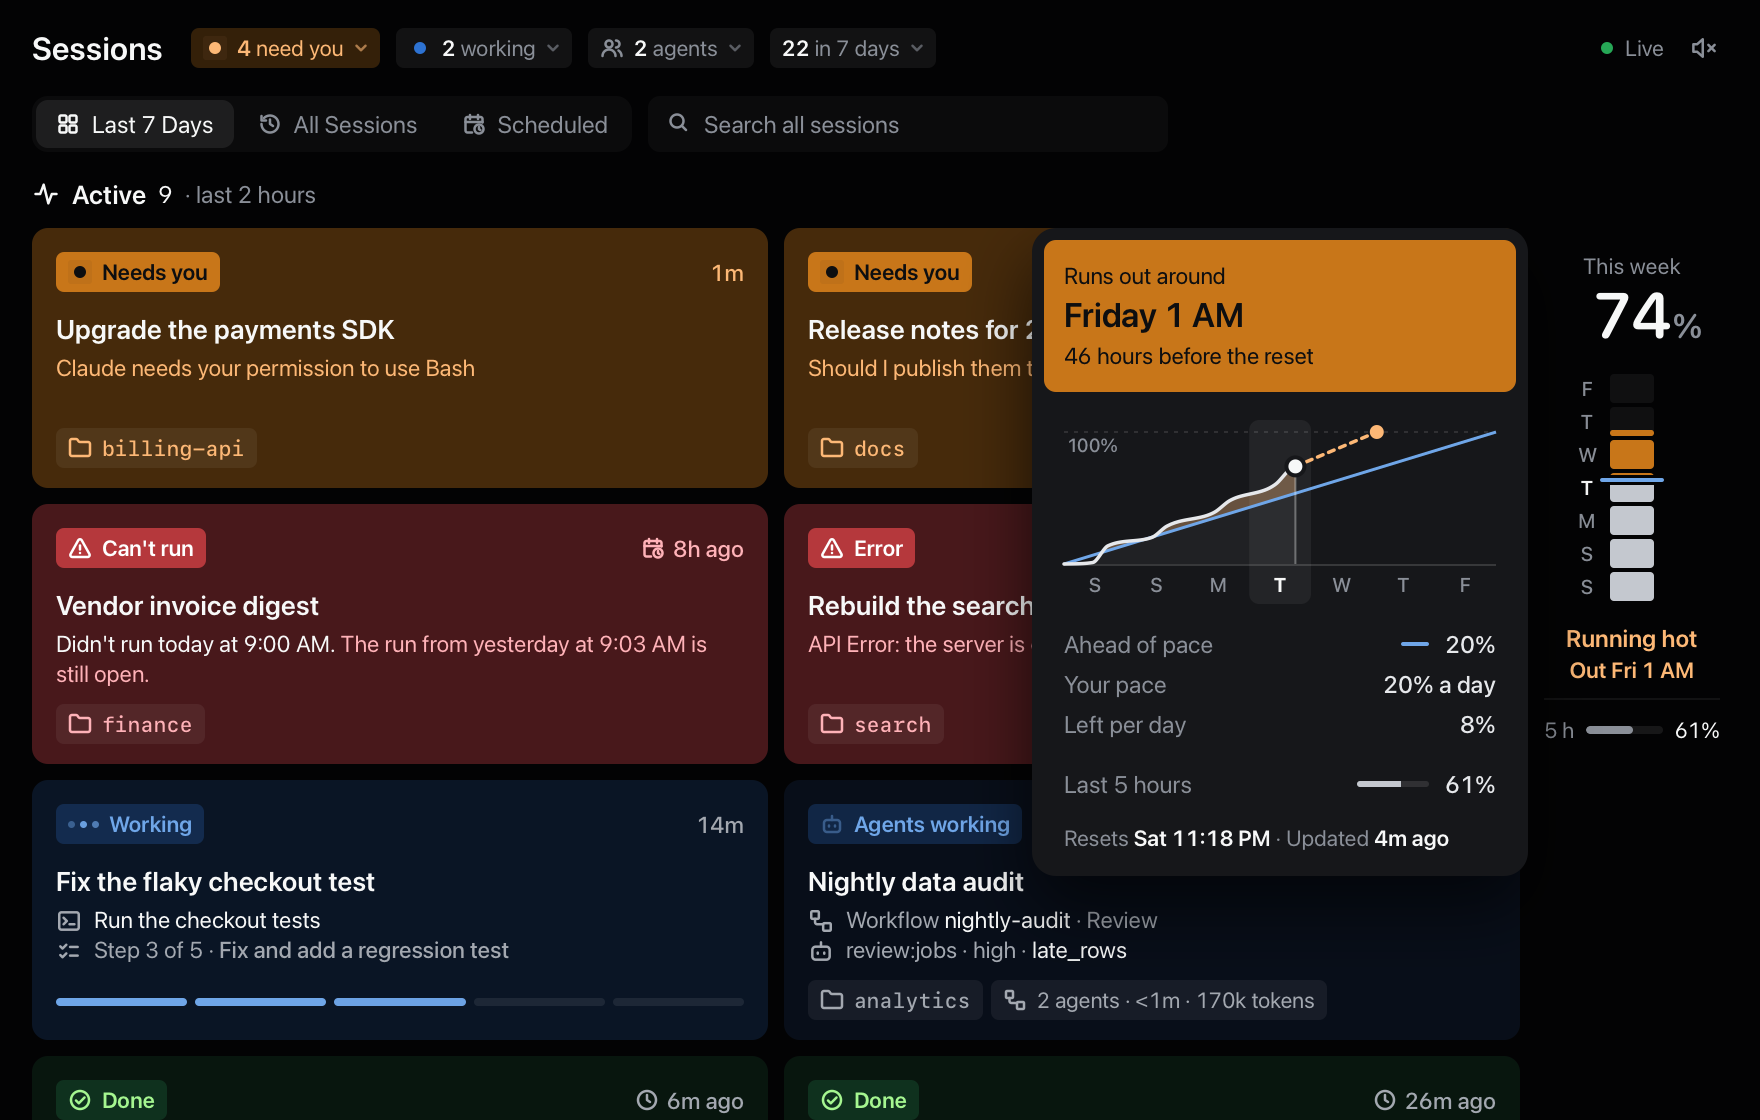
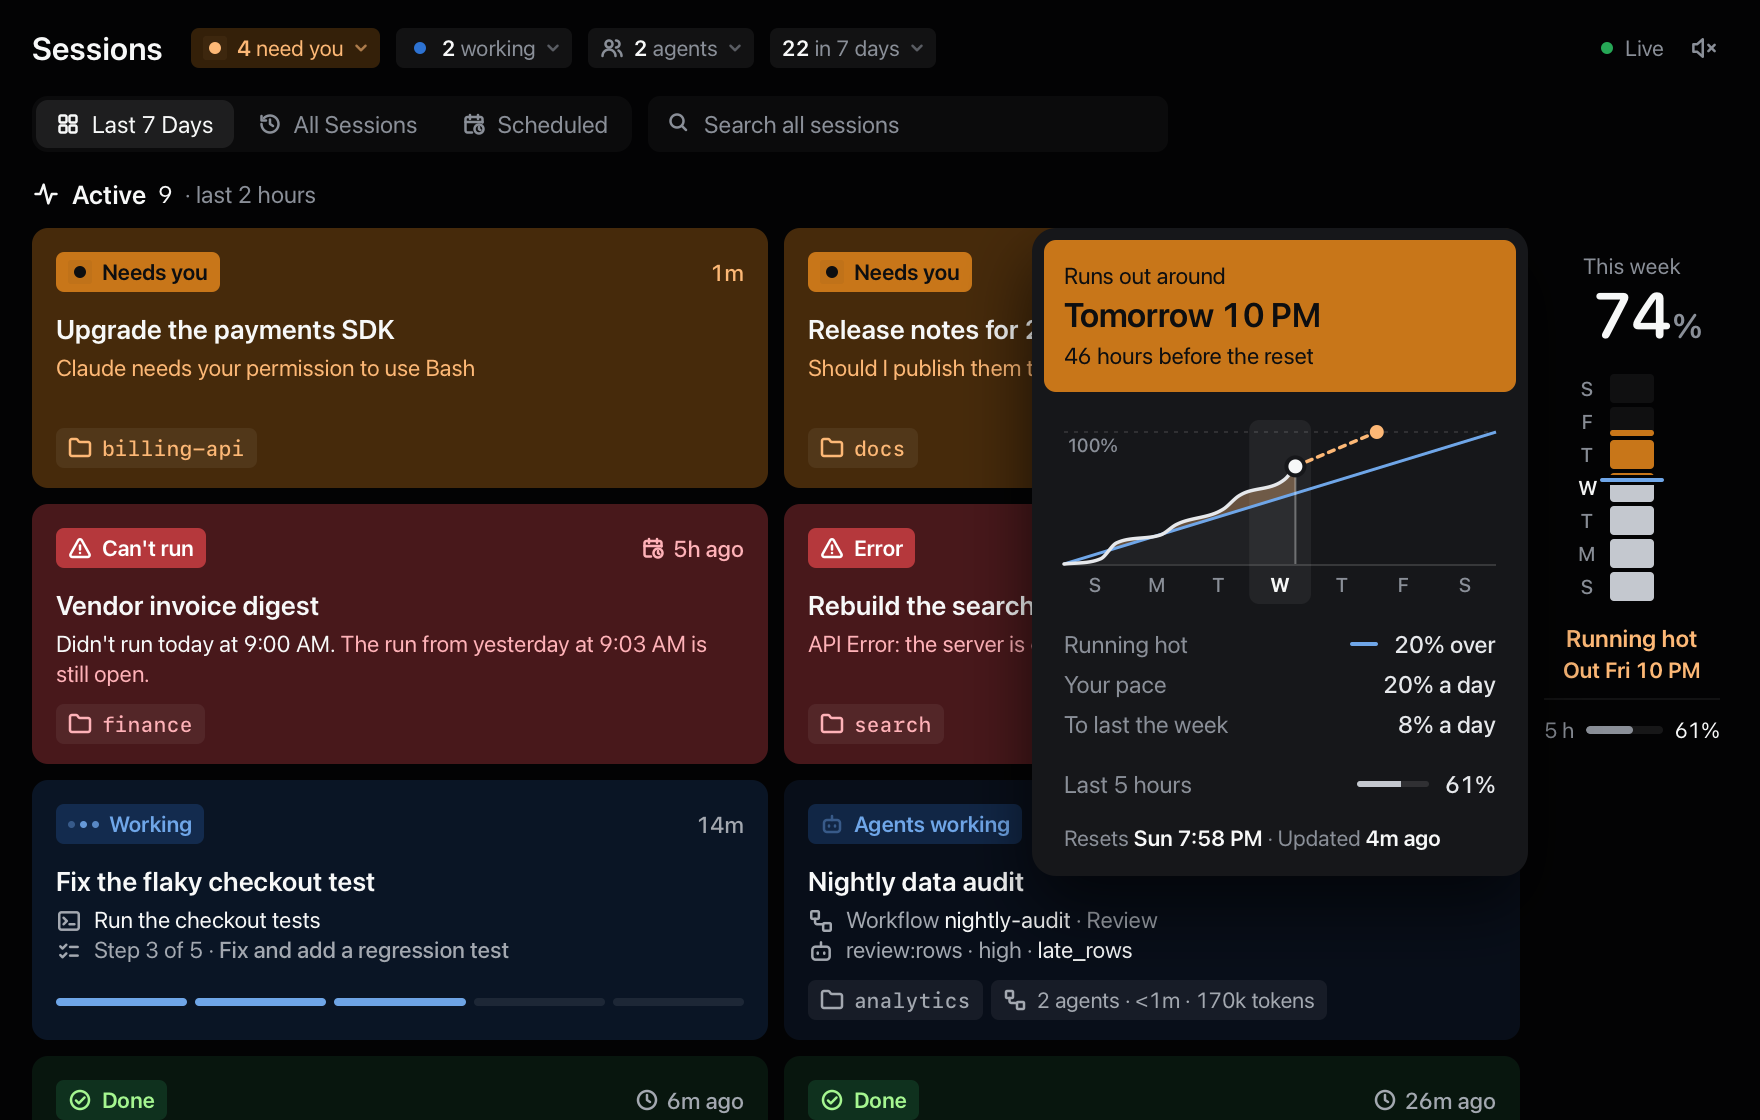
Draw the screenshot with the page's clock in UTC, and use plainer sample text and comments

diff --git a/test/scenarios.ts b/test/scenarios.ts
@@ -52,7 +52,7 @@ ev(id(51), { ev: "PreCompact" });
 
 // 53. A closing message that quotes a question it sent to someone else doesn't ask you
 {
-  const tp = transcript("t53.jsonl", [said("Yes, it went out. I checked it in the chat after sending it:\n\n> @Sam, could you send an example? A screen would work.")]);
+  const tp = transcript("t53.jsonl", [said("Yes, it went out. I checked it in the chat after sending it:\n\n> Could you send an example? A screen would work.")]);
   ev(id(53), { ev: "UserPromptSubmit", prompt: "Did you send it?", tp });
   ev(id(53), { ev: "Stop", tp });
 }
@@ -280,12 +280,12 @@ ev(id(38), { ev: "PreToolUse", tool: "Bash", d: "Export the data", t: dueAt - DA
 // invites the next piece of work. 61: it says to answer in another session, by name.
 // 62–63: they mention more or another, but ask you here.
 for (const [n, cat, action, about] of [
-  [39, "blocked", "In Routines, set Permissions to Bypass for the three tasks", "u-last"],
+  [39, "blocked", "In Settings, turn on the shared folder for the two tasks", "u-last"],
   [40, "blocked", "Approve the old plan", "u-older"],
   [41, "completed", "", "u-last"],
   [42, "completed", "", "u-last"],
   [54, "blocked", "Give the OK to [Routines 39] in its own session so it sends the report", "u-last"],
-  [56, "blocked", "Paste the next text so it can be rewritten in your voice", "u-last"],
+  [56, "blocked", "Send the next part when it's ready", "u-last"],
   [61, "blocked", "Answer in the weekday digest session: which day works best", "u-last"],
   [62, "blocked", "Give the OK to push, or ask for more changes", "u-last"],
   [63, "blocked", "Tell it which option you want, or pick another", "u-last"],
@@ -309,8 +309,8 @@ for (const [n, cat, action, about] of [
 // but their question is their own: they still ask.
 const link = (n: number) => `[Draft review ${n}](#local_${id(n)})`;
 for (const [n, other, answered, close] of [
-  [57, 58, true, `The ${link(58)} session can't start until you answer: who is the image for?`],
-  [59, 60, false, `The ${link(60)} session can't start until you answer: who is the image for?`],
+  [57, 58, true, `The ${link(58)} session can't start until you answer: which cover goes first?`],
+  [59, 60, false, `The ${link(60)} session can't start until you answer: which cover goes first?`],
   [66, 67, true, `I started ${link(67)} for the icons. Should I also push the branch?`],
   [68, 69, true, `La sesión ${link(69)} te hace dos preguntas; contéstalas en esa sesión:\n\n1. ¿Quién la va a ver?\n2. ¿Qué tamaños?`],
   [70, 71, true, `Aparte, ${link(71)} te espera en esa sesión.\n\n¿Subo los cambios?`],
@@ -321,7 +321,7 @@ for (const [n, other, answered, close] of [
   ev(id(n), { ev: "Stop", tp, t: at + 1000 });
   ev(id(other), { ev: "UserPromptSubmit", prompt: "Draft review", t: at - 60_000 });
   ev(id(other), { ev: "Stop", t: at - 30_000 });
-  if (answered) ev(id(other), { ev: "UserPromptSubmit", prompt: "It's for the board", t: at + 60_000 });
+  if (answered) ev(id(other), { ev: "UserPromptSubmit", prompt: "The blue one", t: at + 60_000 });
   const local = `local_${id(other)}`;
   writeFileSync(join(appDir, `${local}.json`), JSON.stringify({
     sessionId: local, cliSessionId: id(other), title: `Draft review ${other}`, originCwd: "/tmp/demo", createdAt: at - 60_000, lastActivityAt: at + 60_000,
@@ -679,7 +679,7 @@ try {
   check("16 a courtesy closing is done", find(s, 16)?.status === "done", find(s, 16));
   check("23 an open offer for more is done", find(s, 23)?.status === "done", find(s, 23));
   check("39 when the Claude app says the turn needs you, it asks you, in the app's words",
-    find(s, 39)?.status === "asks" && find(s, 39)?.ask === "In Routines, set Permissions to Bypass for the three tasks" && find(s, 39)?.needsYou === true, find(s, 39));
+    find(s, 39)?.status === "asks" && find(s, 39)?.ask === "In Settings, turn on the shared folder for the two tasks" && find(s, 39)?.needsYou === true, find(s, 39));
   check("40 a summary of an earlier turn doesn't count", find(s, 40)?.status === "done", find(s, 40));
   check("41 a completed turn stays done", find(s, 41)?.status === "done", find(s, 41));
   check("42 a request without a question mark the app read as done is done", find(s, 42)?.status === "done", find(s, 42));

diff --git a/test/demo.ts b/test/demo.ts
@@ -167,16 +167,16 @@ runOf(releaseRun, "release-notes", "Release notes for 2.4", project("docs"), now
 task("data-audit", "Nightly data audit", "0 2 * * *", project("analytics"), { lastFor: prev("0 2 * * *") });
 runOf(auditRun, "data-audit", "Nightly data audit", project("analytics"), now - 22 * MIN);
 // Ran fine, three times.
-const inbox = "0 8 * * 1-5";
-let at = prev(inbox);
-task("inbox-summary", "Morning inbox summary", inbox, project("inbox"), { lastFor: at });
+const builds = "30 10 * * 1-5";
+let at = prev(builds);
+task("build-summary", "Build health summary", builds, project("ci"), { lastFor: at });
 for (let i = 0; i < 3; i++) {
-  const sid = finished("Morning inbox summary", project("inbox"), at + 8 * MIN, "Eleven new threads. Two need a reply today; both are flagged.");
-  runOf(sid, "inbox-summary", "Morning inbox summary", project("inbox"), at);
-  at = prev(inbox, at - MIN);
+  const sid = finished("Build health summary", project("ci"), at + 8 * MIN, "Eleven builds ran. Two failed; both are flagged.");
+  runOf(sid, "build-summary", "Build health summary", project("ci"), at);
+  at = prev(builds, at - MIN);
 }
 // Missed its latest run: the one before it is the last that happened.
-const daily = "0 7 * * *";
+const daily = "0 11 * * *";
 const ranAt = prev(daily, prev(daily, now - 10 * MIN) - MIN);
 task("metrics-email", "Daily metrics email", daily, project("analytics"), { lastFor: ranAt });
 runOf(finished("Daily metrics email", project("analytics"), ranAt + 8 * MIN, "Sent the metrics summary to the team channel."),
@@ -289,7 +289,7 @@ if (EDGE) {
   ev(s, now - 8 * MIN - 2000, { ev: "PostToolUse", tool: "CronCreate", x: { id: "e5f6a7b8", at: now + 52 * MIN, cron: "*/10 * * * *", rec: true }, cwd: project("infra") });
   ev(s, now - 8 * MIN - 1000, { ev: "PostToolUse", tool: "mcp__scheduled-tasks__create_scheduled_task", x: { task: "migration-report" }, cwd: project("infra") });
   ev(s, now - 8 * MIN - 500, { ev: "PostToolUse", tool: "mcp__scheduled-tasks__create_scheduled_task", x: { task: "migration-cleanup" }, cwd: project("infra") });
-  task("migration-report", "Migration status report with a much longer name than usual", "30 7 * * *", project("infra"), { created: now - 8 * MIN - 1000 });
+  task("migration-report", "Migration status report with a much longer name than usual", "30 16 * * *", project("infra"), { created: now - 8 * MIN - 1000 });
   taskFile.push({ id: "migration-cleanup", displayName: "Drop the old tables", fireAt: new Date(now + 26 * 60 * MIN).toISOString(),
     enabled: true, cwd: project("infra"), createdAt: now - 8 * MIN - 500 });
   taskFile.push({ id: "send-recap", displayName: "Send the launch recap", fireAt: new Date(now - 30 * 60 * MIN).toISOString(),

diff --git a/docs/screenshot.swift b/docs/screenshot.swift
@@ -1,7 +1,7 @@
 // Draws docs/screenshot.png: the page on the demo data, in WebKit (the app's own engine),
 // at twice the pixels, with the weekly usage card open. Run the demo first.
 //
-//   bun test/demo.ts --hot &
+//   TZ=UTC bun test/demo.ts --hot &
 //   swift docs/screenshot.swift http://127.0.0.1:4748/ docs/screenshot.png
 import AppKit
 import WebKit
@@ -19,7 +19,23 @@ let app = NSApplication.shared
 app.setActivationPolicy(.prohibited)
 let window = NSWindow(contentRect: NSRect(origin: .zero, size: NSSize(width: size.width * scale, height: size.height * scale)),
                       styleMask: [.borderless], backing: .buffered, defer: false)
-let web = WKWebView(frame: window.contentLayoutRect)
+// The page's clock in UTC, whatever the Mac's time zone, so the times on the picture say
+// nothing about where it was drawn.
+let utc = WKUserScript(source: """
+  (() => {
+    const pin = (f, at) => function (loc, o) { return f.call(this, loc, { ...(o || {}), timeZone: "UTC" }); };
+    for (const k of ["toLocaleString", "toLocaleDateString", "toLocaleTimeString"]) Date.prototype[k] = pin(Date.prototype[k]);
+    for (const k of ["FullYear", "Month", "Date", "Day", "Hours", "Minutes", "Seconds"]) Date.prototype["get" + k] = Date.prototype["getUTC" + k];
+    for (const k of ["FullYear", "Month", "Date", "Hours", "Minutes", "Seconds", "Milliseconds"]) Date.prototype["set" + k] = Date.prototype["setUTC" + k];
+    Date.prototype.getTimezoneOffset = () => 0;
+    const DTF = Intl.DateTimeFormat;
+    Intl.DateTimeFormat = function (loc, o) { return new DTF(loc, { ...(o || {}), timeZone: "UTC" }); };
+    Intl.DateTimeFormat.prototype = DTF.prototype;
+  })();
+  """, injectionTime: .atDocumentStart, forMainFrameOnly: true)
+let config = WKWebViewConfiguration()
+config.userContentController.addUserScript(utc)
+let web = WKWebView(frame: window.contentLayoutRect, configuration: config)
 web.pageZoom = scale
 window.contentView = web
 window.orderBack(nil)

diff --git a/test/closing.test.ts b/test/closing.test.ts
@@ -90,8 +90,8 @@ const rows: [string, Row][] = [
   ["39 a plain done", { text: "Listo, quedó arreglado.", is: "done" }],
   ["42 dime cuál", { text: "Revisé las notas. Dime cuál lista ordeno primero.", is: "asks" }],
   ["52 all set", { text: "All set, the notes are tidy.", is: "done" }],
-  ["53 a quoted question", { text: "Yes, it went out. I checked it in the chat after sending it:\n\n> @Sam, could you send an example? A screen would work.", is: "done" }],
-  ["57 a question relayed from a linked session", { text: `The ${link} session can't start until you answer: who is the image for?`, is: "relayed", relayed: ["cli-draft"] }],
+  ["53 a quoted question", { text: "Yes, it went out. I checked it in the chat after sending it:\n\n> Could you send an example? A screen would work.", is: "done" }],
+  ["57 a question relayed from a linked session", { text: `The ${link} session can't start until you answer: which cover goes first?`, is: "relayed", relayed: ["cli-draft"] }],
   ["66 its own question beside a link", { text: `I started ${link} for the icons. Should I also push the branch?`, is: "asks", ask: "Should I also push the branch?" }],
   ["68 questions under a lead-in that relays them", { text: `La sesión ${link} te hace dos preguntas; contéstalas en esa sesión:\n\n1. ¿Quién la va a ver?\n2. ¿Qué tamaños?`, is: "relayed", relayed: ["cli-draft"] }],
   ["70 its own question after a relayed one", { text: `Aparte, ${link} te espera en esa sesión.\n\n¿Subo los cambios?`, is: "asks", ask: "¿Subo los cambios?" }],

diff --git a/public/index.html b/public/index.html
@@ -15,7 +15,7 @@
   :root {
     color-scheme: dark;
 
-    --color-background-body: #030304;  /* darker than the theme's #08090A, for a window that sits on a dark desk */
+    --color-background-body: #030304;  /* darker than the theme's #08090A */
     --color-background-card: #FFFFFF08;   /* 3% veil */
     --color-overlay-hover: #FFFFFF0A;     /* 4% */
     --obsidian-veil-selected: #FFFFFF0F;  /* 6% */
@@ -453,7 +453,7 @@
     translate: 0 calc(round(nearest, calc(var(--csm-scale, 1) * 1px), 1px) / var(--csm-scale, 1)); }
   .detail .wrap { display: -webkit-box; -webkit-line-clamp: 2; -webkit-box-orient: vertical; overflow: hidden; overflow-wrap: anywhere; }
   .detail b { color: var(--color-text-primary); font-weight: 400; }
-  /* A short window (yours is about 430 px tall at 125%) gets lower cards: the title
+  /* A short window gets lower cards: the title
      keeps one line, and both lines of detail stay, since they carry the plan step and
      what the agents do. */
   @media (max-height: 600px) {

diff --git a/app/main.swift b/app/main.swift
@@ -866,8 +866,8 @@ final class AppDelegate: NSObject, NSApplicationDelegate, NSWindowDelegate, NSTo
 
     // MARK: size
 
-    // A 4K screen at 1x makes 14 px text tiny, so dense screens get 150% unless you pick
-    // a size. The longer side counts, so a 4K screen turned vertical counts too.
+    // A very large screen at 1x makes 14 px text tiny, so dense screens get 150% unless you
+    // pick a size. The longer side counts, so a large screen turned vertical counts too.
     func autoZoom(for screen: NSScreen?) -> CGFloat {
         guard let s = screen else { return 1 }
         return s.backingScaleFactor < 1.5 && max(s.frame.width, s.frame.height) >= 3000 ? 1.5 : 1

diff --git a/src/desktop.ts b/src/desktop.ts
@@ -89,7 +89,7 @@ export function saysTitle(text: string, title: string): boolean {
   return t.length >= 6 && ` ${nameWords(text).join(" ")} `.includes(` ${t} `);
 }
 
-// A note that only invites the next piece of work ("Paste the next text so it can be…",
+// A note that only invites the next piece of work ("Send the next part when it's ready…",
 // "Send another file…") is an open offer, like one in the closing message: nothing waits.
 // Only when it starts that way: "Give the OK to push, or ask for more changes" still asks.
 const OPEN_NOTE = /^(paste|send|share|drop|upload)( me| us| it)? (the next|your next|another|any other)\b/i;

diff --git a/src/tasks.ts b/src/tasks.ts
@@ -73,7 +73,7 @@ export function nextOf(t: Task, now: number): number | null {
 }
 
 // The scheduled tasks a session set up, as the Claude app lists them now; one it later
-// deleted is gone. The app can change the ID it was asked for ("check-inbox-2"), so a
+// deleted is gone. The app can change the ID it was asked for ("nightly-check-2"), so a
 // task with an ID that starts the same, created right then, counts too.
 export function madeTasks(made: Session["made"], now: number) {
   const out: { id: string; name: string; enabled: boolean; next: number | null }[] = [];

diff --git a/README.md b/README.md
@@ -173,7 +173,7 @@ It never stores whole conversations.
 
 ## How it works
 
-1. **Hook** (`hooks/session-hook.sh`). Claude Code runs it on every event of every session, and it appends one short line to `events.jsonl`. No network, no output, and it always exits 0. It takes about 12 ms. Its neighbor `hooks/statusline.sh` is the status line that saves your usage.
+1. **Hook** (`hooks/session-hook.sh`). Claude Code runs it on every event of every session, and it appends one short line to `events.jsonl`. No network, no output, and it always exits 0. Its neighbor `hooks/statusline.sh` is the status line that saves your usage.
 2. **Server** (`server.ts` and `src/`, Bun). It reads that file, keeps a small state per session, saves it to `sessions.db` and streams it to the page. `cron.ts` reads the scheduled tasks' schedules, to say them in words and to work out the next run and a missed one.
 3. **Page** (`public/index.html`). The cards, the three views and their empty and offline states. It uses the colors of the [Obsidian theme](https://github.com/creative-context/astryx-theme-obsidian) and Apple\'s system fonts, SF Pro and SF Mono, so it ships no font files. In Last 7 Days, cards that move, leave or turn into rows are animated with the layout module of [anime.js](https://animejs.com), which ships inside the app (`public/anime-layout.js`), so it loads nothing from the network. Reduce Motion turns it off.
 4. **App** (`app/main.swift`). A standard macOS window with a transparent title bar, the usual menus, Settings, a toolbar for the views, search and sound, a Dock icon and a menu bar item. In full screen the toolbar hides with the menu bar, as in Safari, so the page fills the screen; it comes down when the pointer reaches the top. It runs the server it carries and starts it again if it stops.

diff --git a/CHANGELOG.md b/CHANGELOG.md
@@ -35,7 +35,7 @@
 ## 0.4.8
 
 - Fix: a Claude app note that names a related session ("In the … session, choose…", or its whole title) no longer marks this session as needing you; the question belongs to that one. A note that only starts with the same words as a related session's title still asks you here.
-- Fix: a Claude app note that only invites the next piece of work ("Paste the next text…") is an open offer and no longer marks the session as needing you. A note that asks for something and mentions more or another ("Give the OK to push, or ask for more changes") still does.
+- Fix: a Claude app note that only invites the next piece of work ("Send the next part…") is an open offer and no longer marks the session as needing you. A note that asks for something and mentions more or another ("Give the OK to push, or ask for more changes") still does.
 - A session that passes on another session's question stops needing you once that session gets a message: you answered there. It counts only when the message says the question is that session's ("… te hace dos preguntas; contéstalas en esa sesión:", "can't start until you answer"); a question of its own, beside a link to another session, still asks you.
 - A Claude app note that says to answer in another session by name ("Answer in the … session: …") leaves the question to that session, which already shows it. Names that point to no session in particular ("in the next session") don't count.
 
